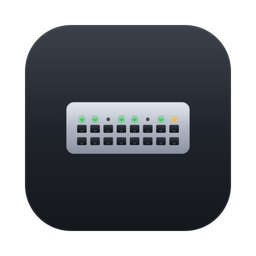
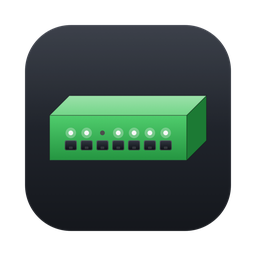
House style: "Edition" in the Windows row menu, readable danger fill and muted text, final network-fleet tiles
- Windows: the row's more menu and its tooltip say "Edition" (Light / Full), never "Variant".
- Windows: a destructive button is filled with #DA3633 in dark mode (white text passes 4.5:1); red text keeps #F85149.
- Muted (tertiary) text is #676E78 light / #868D97 dark on both platforms, as the house kit's --text-3.
- Cisco Switch Tools, NETGEAR Switch Tools and MikroTik Router Tools tiles regenerated from the final icon masters
  the apps now ship (256 px).

Changed region(s): [[0.1875, 0.3438, 0.8125, 0.625]]

diff --git a/JBTheatreTools/Sources/JBTheatreTools/Theme.swift b/JBTheatreTools/Sources/JBTheatreTools/Theme.swift
@@ -46,7 +46,7 @@ extension Color {
     // ── text ───────────────────────────────────────────────────────────────────────────────────────
     static let jbText = JBTokens.dynamic(light: 0x16181C, dark: 0xE8EAEE)
     static let jbText2 = JBTokens.dynamic(light: 0x5F6670, dark: 0x9AA1AB)
-    static let jbText3 = JBTokens.dynamic(light: 0x8B929C, dark: 0x6C737D)
+    static let jbText3 = JBTokens.dynamic(light: 0x676E78, dark: 0x868D97)   // kit v2.2.1 --text-3 (4.5:1)
 
     // ── identity + semantics ──────────────────────────────────────────────────────────────────────
     /// Suite accent: purple #AF52DE light / #C77BF0 dark. Reserved for identity, the primary action,

diff --git a/JBTheatreToolsWin/Theme.cs b/JBTheatreToolsWin/Theme.cs
@@ -59,7 +59,7 @@ public static class Theme
     public static Color Fg(bool dark) => dark ? C(0xE8EAEE) : C(0x16181C);
     public static Color Sub(bool dark) => dark ? C(0x9AA1AB) : C(0x5F6670);
     /// <summary>Tertiary text — meta lines, panel headings, the credit line.</summary>
-    public static Color Muted(bool dark) => dark ? C(0x6C737D) : C(0x8B929C);
+    public static Color Muted(bool dark) => dark ? C(0x868D97) : C(0x676E78);   // kit v2.2.1 --text-3 (4.5:1 on both grounds)
 
     // ── identity + semantics ─────────────────────────────────────────────────────────────────────
     /// <summary>Suite accent: purple #AF52DE light / #C77BF0 dark. Reserved for identity, the primary
@@ -75,6 +75,9 @@ public static class Theme
     public static Color Ok => CurrentDark ? C(0x3FB950) : C(0x1F9D4C);
     public static Color Warn => CurrentDark ? C(0xF0883E) : C(0xC2610B);
     public static Color Danger => CurrentDark ? C(0xF85149) : C(0xD3312B);
+    /// <summary>The FILL of a destructive button (kit v2.2.1 --danger-fill): white text on it passes 4.5:1 in both
+    /// themes. <see cref="Danger"/> stays the red for text on the page.</summary>
+    public static Color DangerFill => CurrentDark ? C(0xDA3633) : C(0xD3312B);
     public static Color Info => CurrentDark ? C(0x58A6FF) : C(0x1F6FD6);
 
     // ── derived ───────────────────────────────────────────────────────────────────────────────────

diff --git a/JBTheatreToolsWin/AppRowControl.cs b/JBTheatreToolsWin/AppRowControl.cs
@@ -290,7 +290,7 @@ public sealed class AppRowControl : UserControl
 
         _more.Text = "⋯";
         _more.AccessibleName = $"More actions for {app.Name}";
-        _tip.SetToolTip(_more, "Variant, reorder, other versions & uninstall");
+        _tip.SetToolTip(_more, "Edition, reorder, other versions & uninstall");
         _more.Click += (_, _) => ShowMoreMenu(fromButton: true);
 
         _cancel.Text = "Cancel";
@@ -622,7 +622,7 @@ public sealed class AppRowControl : UserControl
         {
             menu.Items.Add(new ToolStripSeparator());
             var sel = SelectedVariantQuery?.Invoke(this);
-            var variant = new ToolStripMenuItem("Variant");
+            var variant = new ToolStripMenuItem("Edition");
             foreach (var v in App.Variants)
             {
                 var vid = v.Id;

diff --git a/JBTheatreToolsWin/HouseControls.cs b/JBTheatreToolsWin/HouseControls.cs
@@ -386,7 +386,7 @@ public sealed class HouseButton : Button
                 fg = Theme.OnAccent;
                 break;
             case HouseRole.Danger:
-                fill = _pressed ? Theme.Blend(Theme.Danger, back, 0.8) : _hover ? Theme.Blend(Theme.Fg(dark), Theme.Danger, 0.06) : Theme.Danger;
+                fill = _pressed ? Theme.Blend(Theme.DangerFill, back, 0.8) : _hover ? Theme.Blend(Theme.Fg(dark), Theme.DangerFill, 0.06) : Theme.DangerFill;
                 fg = Color.White;
                 break;
             case HouseRole.Secondary:
